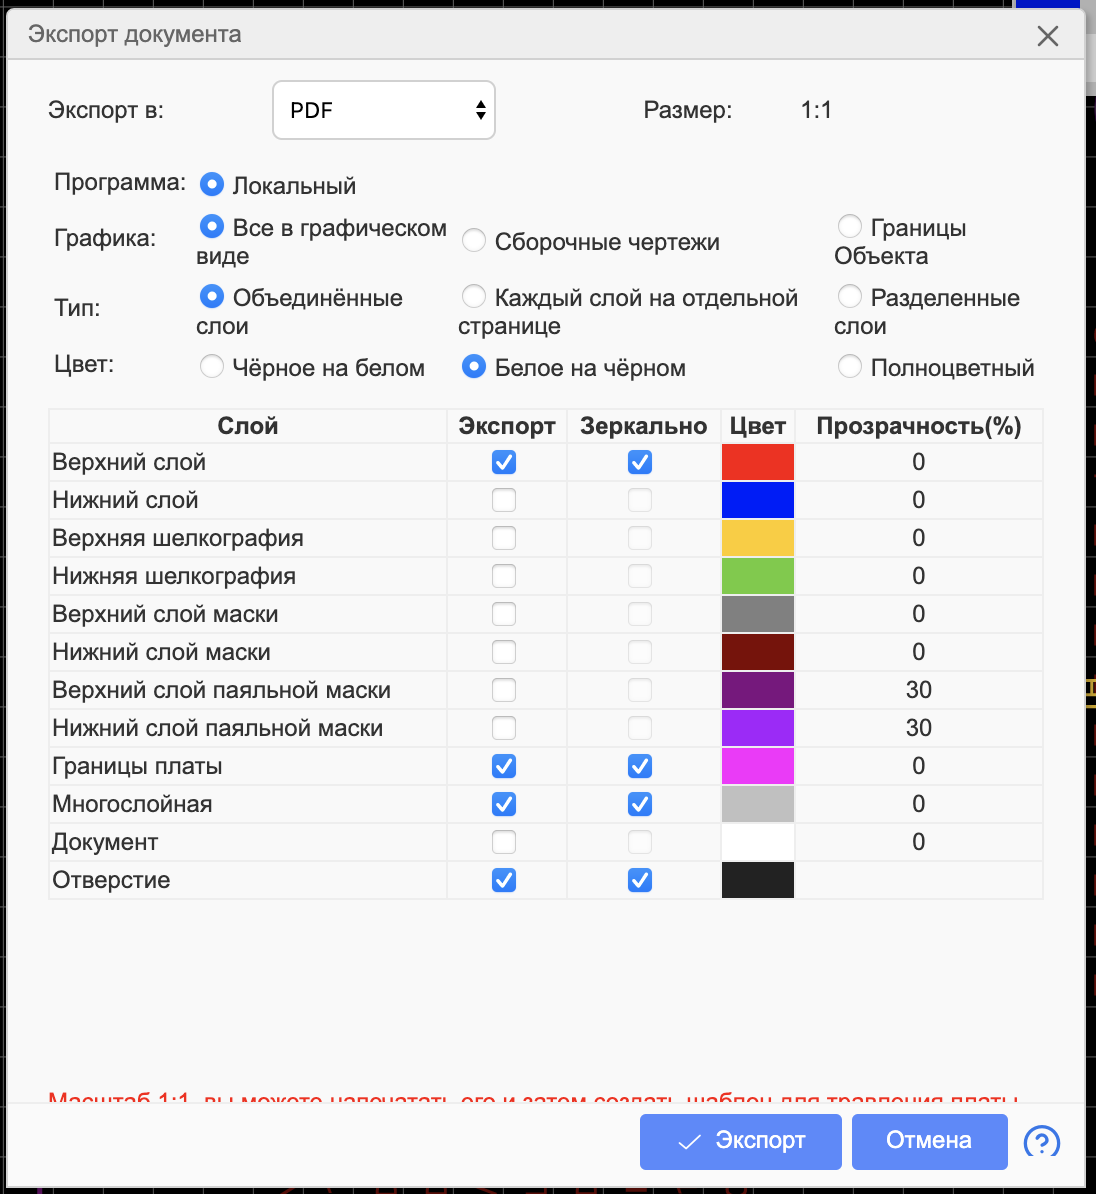
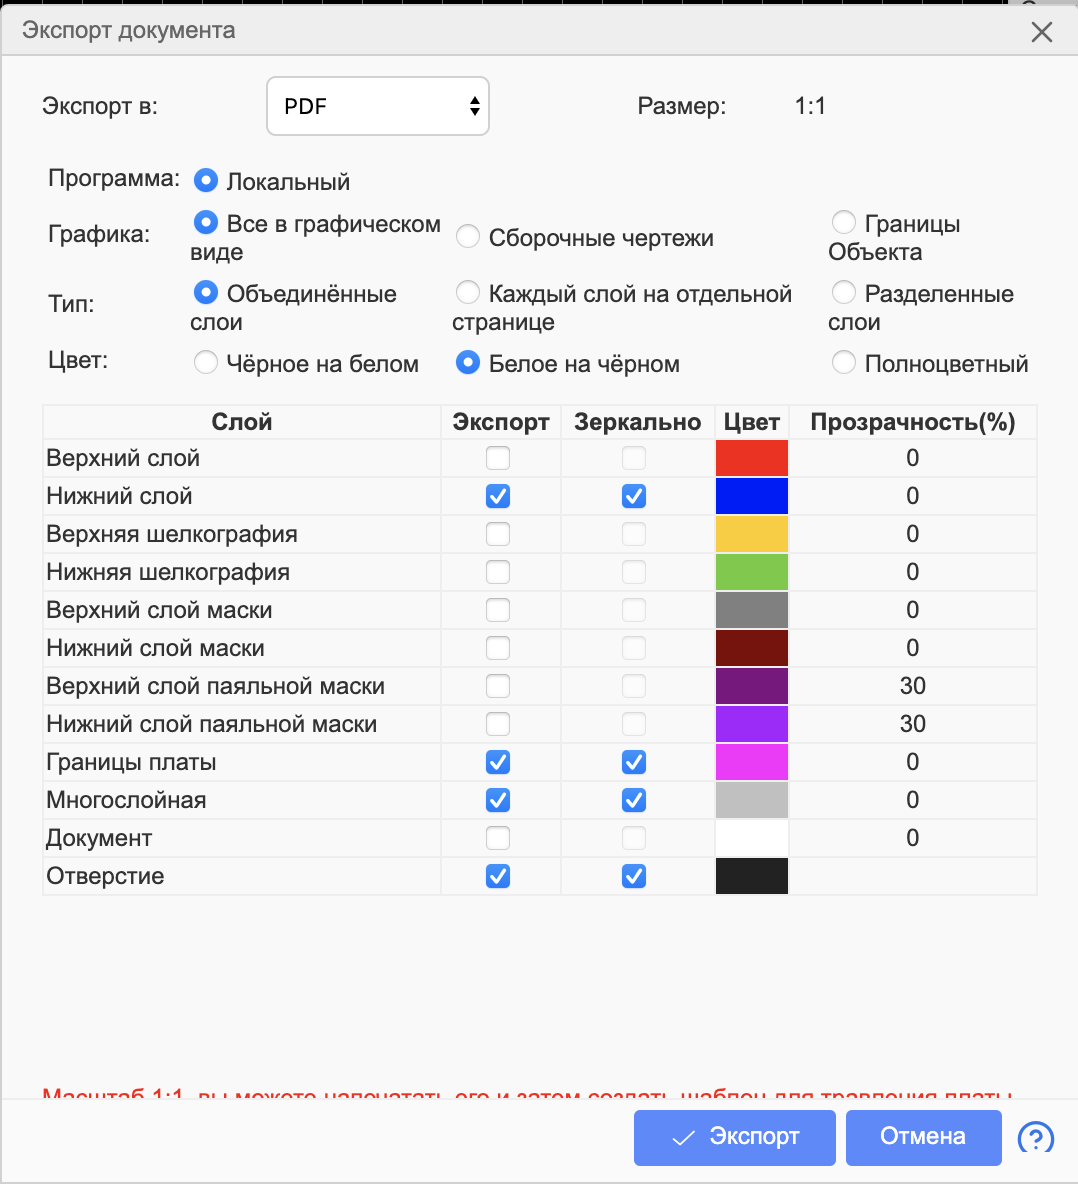
Fix problems

diff --git a/content/make-fotoresist-plate.md b/content/make-fotoresist-plate.md
@@ -55,7 +55,9 @@ tags:
 
 Обычно сначала в EasyEDA рисуют схему вашего устройства. Когда схема готова ее преобразуют в печатную плату. Я не буду здесь рассказывать как работать в EasyEDA, представим что у вас уже есть готовый макет печатной платы сделанный в EasyEDA.
 
-Наша схема готова (это очень простая схема модуля питания для проектов), теперь ее нужно экспортировать в PDF.
+Если вы разводите одностороннюю печатную плату обязательно используйте нижний слой и проверьте отображение в 3D. Дорожки и медный слой на вашей плате будут отображаться синим цветом.
+
+Наша схема готова, теперь ее нужно экспортировать в PDF.
 
 ![EasyEDA схема](./make-fotoresist-plate/easy_eda_01.png)
 
@@ -66,7 +68,7 @@ tags:
 Указываем цвет: **белое на черном.**
 
 В диалоговом окне выбираем нужные слои:
-- **верхний слой** / **нижний слой** (в зависимости от того какую плату вы проектируете);
+- **нижний слой** (для односторонних плат);
 - **границы платы;**
 - **многослойная;**
 - **отверстие;**
@@ -77,6 +79,8 @@ tags:
 
 После завершения настройки нажимаем кнопку "Экспорт". Фотошаблон вашей платы будет сохранен в PDF файл.
 
+Чтобы ничего не перепутать можно добавить в макет платы текстовые надписи. В PDF-файле текст должен отображаться в читаемом виде (не в зеркальном).
+
 ![Фотошаблон платы](./make-fotoresist-plate/easy_eda_03.png)
 
 ### Экспортируем в PDF фотошаблон паяльной маски
@@ -86,8 +90,8 @@ tags:
 Указываем цвет: **черное на белом.**
 
 В диалоговом окне выбираем нужные слои:
-- **верхний слой маски** (в зависимости от того какую плату вы проектируете);
-- **верхний слой паяльной маски;**
+- **нижний слой маски** (для односторонних плат);
+- **нижний слой паяльной маски;**
 - **границы платы;**
 
 Для каждого слоя нужно проставить галочки: **экспорт** и **зеркально**.
@@ -98,6 +102,11 @@ tags:
 
 ![Фотошаблон паяльной маски](./make-fotoresist-plate/easy_eda_05.png)
 
+Чтобы маска получилась лучше, можно распечатать еще один шаблон паяльной маски, сняв галочки "зеркально".
+
+![Фотошаблон паяльной маски](./make-fotoresist-plate/easy_eda_05_.png)
+
+Позднее мы соединим два фотошаблона паяльной маски скотчем. Двойной шаблон лучше зашитит медные контакты от засветки УФ-маски. 
 
 Далее файл печатной платы и паяльной маски нам необходимо распечатать на прозрачной пленке Lomond.
 
